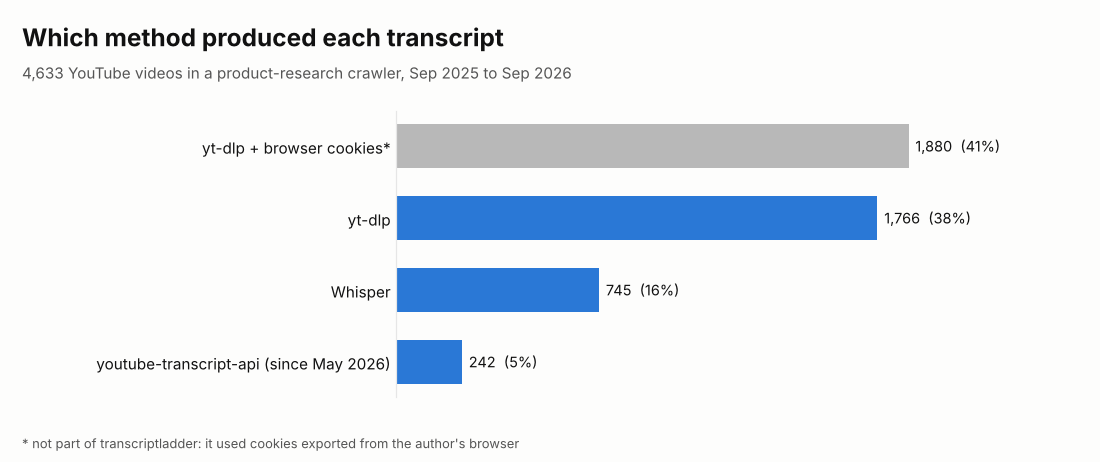
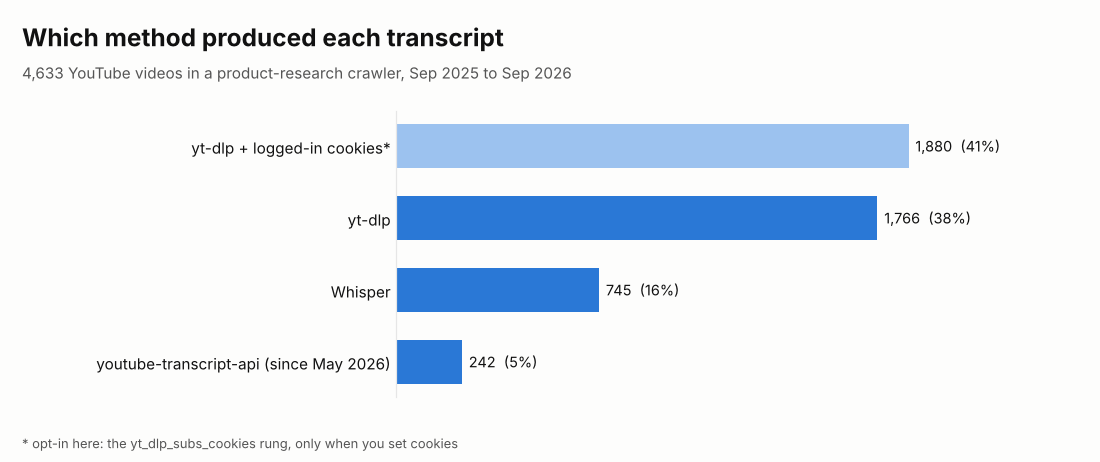
Degrau opcional com cookies de sessão logada (yt_dlp_subs_cookies)
- YtDlp(cookies=..., cookies_from_browser=...) e --cookies / --cookies-from-browser na CLI
- o degrau só existe quando há cookies e começa depois dos degraus sem cookies
- cookies não são usados em metadados nem no áudio
- com cookies, pedido de confirmar idade deixa de encerrar como unavailable
- README EN/PT: seção "Sessão logada", gráfico e fluxo atualizados
- .gitignore exclui *cookies*.txt
- 2 testes novos (19 no total)

Changed region(s): [[0.34, 0.2424, 0.8345, 0.3636], [0.0309, 0.9394, 0.4636, 0.9697], [0.1545, 0.303, 0.3091, 0.3333]]

diff --git a/docs/make_methods_chart.py b/docs/make_methods_chart.py
@@ -6,19 +6,19 @@ from pathlib import Path
 
 OUT = Path(__file__).parent / "img"
 INK, MUTED, LINE, BG, BLUE, GRAY = "#111111", "#555555", "#e6e6e6", "#fdfdfc", "#2a78d6", "#b8b8b8"
-DATA = [("yt-dlp + browser cookies*", 1880), ("yt-dlp", 1766), ("Whisper", 745), ("youtube-transcript-api (since May 2026)", 242)]
-PT = {"yt-dlp + browser cookies*": "yt-dlp + cookies do navegador*", "youtube-transcript-api (since May 2026)": "youtube-transcript-api (desde maio de 2026)"}
+DATA = [("yt-dlp + logged-in cookies*", 1880), ("yt-dlp", 1766), ("Whisper", 745), ("youtube-transcript-api (since May 2026)", 242)]
+PT = {"yt-dlp + logged-in cookies*": "yt-dlp + cookies de sessão logada*", "youtube-transcript-api (since May 2026)": "youtube-transcript-api (desde maio de 2026)"}
 TXT = {"": ("Which method produced each transcript", "4,633 YouTube videos in a product-research crawler, Sep 2025 to Sep 2026",
-            "* not part of transcriptladder: it used cookies exported from the author's browser"),
+            "* opt-in here: the yt_dlp_subs_cookies rung, only when you set cookies"),
        ".pt-BR": ("Qual método gerou cada transcrição", "4.633 vídeos do YouTube num crawler de pesquisa de produtos, set. 2025 a set. 2026",
-                  "* fora da transcriptladder: usava cookies exportados do navegador do autor")}
+                  "* opcional aqui: o degrau yt_dlp_subs_cookies, só quando você configura cookies")}
 for suf, (t, s, n) in TXT.items():
     fig, ax = plt.subplots(figsize=(10, 4.2), dpi=110); fig.patch.set_facecolor(BG); ax.set_facecolor(BG)
     fig.subplots_adjust(left=0.36, right=0.93, top=0.76, bottom=0.14)
     fig.text(0.02, 0.9, t, fontsize=16, weight="bold", color=INK); fig.text(0.02, 0.83, s, fontsize=10, color=MUTED)
     fig.text(0.02, 0.03, n, fontsize=8.5, color=MUTED)
     labels = [PT.get(l, l) if suf else l for l, _ in DATA][::-1]; vals = [v for _, v in DATA][::-1]
-    ax.barh(labels, vals, color=[GRAY if "*" in l else BLUE for l in labels], height=0.62)
+    ax.barh(labels, vals, color=["#9cc2ef" if "*" in l else BLUE for l in labels], height=0.62)
     tot = 4633
     for y, v in enumerate(vals):
         ax.text(v + 25, y, f"{v:,}".replace(",", "." if suf else ",") + f"  ({v/tot:.0%})", va="center", fontsize=9.5, color=INK)

diff --git a/src/transcriptladder/video.py b/src/transcriptladder/video.py
@@ -50,6 +50,9 @@ class YtDlp:
       read some formats).
     - ``impersonate`` (e.g. ``"chrome"``) uses yt-dlp's own browser impersonation.
     - ``extra_args`` go to every call as given.
+    - ``cookies`` (a Netscape cookies.txt) or ``cookies_from_browser`` (e.g. ``"chrome"``) are
+      yt-dlp's own options for a logged-in session. They are used only by calls made with
+      ``with_cookies=True`` (the ``yt_dlp_subs_cookies`` rung), never by default.
     - One call at a time per process (``YtDlp.lock``): parallel yt-dlp calls are the fastest
       way to a 429.
     """
@@ -58,13 +61,23 @@ class YtDlp:
     impersonate: str | None = None
     extra_args: list[str] = field(default_factory=list)
     timeout: float = 180.0
+    cookies: str | None = None
+    cookies_from_browser: str | None = None
     lock = threading.Lock()
+
+    @property
+    def has_cookies(self) -> bool:
+        return bool(self.cookies or self.cookies_from_browser)
 
     def available(self) -> bool:
         return shutil.which(self.binary) is not None
 
-    def _base(self) -> list[str]:
+    def _base(self, with_cookies: bool = False) -> list[str]:
         args = [self.binary, "--no-playlist", "--no-warnings"]
+        if with_cookies and self.cookies:
+            args += ["--cookies", self.cookies]
+        elif with_cookies and self.cookies_from_browser:
+            args += ["--cookies-from-browser", self.cookies_from_browser]
         for rt in ("deno", "node"):
             if shutil.which(rt):
                 args += ["--js-runtimes", rt]
@@ -73,8 +86,8 @@ class YtDlp:
             args += ["--impersonate", self.impersonate]
         return args + list(self.extra_args)
 
-    def run(self, args: list[str], cwd: str | None = None) -> subprocess.CompletedProcess:
-        cmd = self._base() + args
+    def run(self, args: list[str], cwd: str | None = None, with_cookies: bool = False) -> subprocess.CompletedProcess:
+        cmd = self._base(with_cookies) + args
         with self.lock:
             res = subprocess.run(cmd, capture_output=True, text=True, cwd=cwd, timeout=self.timeout,
                                  stdin=subprocess.DEVNULL)

diff --git a/src/transcriptladder/ladder.py b/src/transcriptladder/ladder.py
@@ -9,7 +9,7 @@ from typing import Callable, Iterable
 from scrapladder.memory import Memory
 
 from . import text as T
-from .rungs import Job, NoCaptions, Rung, Silent, default_rungs
+from .rungs import Job, NoCaptions, Rung, Silent, YtDlpSubsCookies, default_rungs
 from .video import RateLimited, YtDlp, video_id
 
 OK = "ok"
@@ -83,7 +83,8 @@ class Transcriber:
     max_audio_seconds:
         Speech recognition reads at most this much audio (default 1 hour).
     ytdlp:
-        A :class:`YtDlp` (``impersonate``, ``extra_args``, ``binary``).
+        A :class:`YtDlp` (``impersonate``, ``extra_args``, ``binary``, and the opt-in
+        ``cookies`` / ``cookies_from_browser`` that add the ``yt_dlp_subs_cookies`` rung).
     """
 
     def __init__(self, languages: Iterable[str] = ("pt", "pt-BR", "en"), *, rungs: Iterable[Rung] | None = None,
@@ -99,6 +100,8 @@ class Transcriber:
         self.min_interval, self.rate_limit_pause = min_interval, rate_limit_pause
         self.max_audio_seconds = max_audio_seconds
         self.ytdlp = ytdlp or YtDlp()
+        if rungs is None and self.ytdlp.has_cookies and self.ytdlp.available():
+            self.rungs.append(YtDlpSubsCookies())
         self._clock, self._sleep = clock, sleep
         self._next_ok = 0.0
         self._paused_until = 0.0
@@ -147,7 +150,10 @@ class Transcriber:
                     return result
                 except Exception as e:
                     msg = str(e).lower()
-                    if any(h in msg for h in _UNAVAILABLE_HINTS):
+                    hints = _UNAVAILABLE_HINTS
+                    if self.ytdlp.has_cookies and not getattr(rung, "with_cookies", False):
+                        hints = tuple(h for h in hints if "sign in" not in h and "members-only" not in h)
+                    if any(h in msg for h in hints):
                         att.outcome, att.reason = "unavailable", str(e)[:120]
                         result.outcome = UNAVAILABLE
                         return result

diff --git a/src/transcriptladder/rungs.py b/src/transcriptladder/rungs.py
@@ -128,6 +128,7 @@ class YtDlpSubs(Rung):
     """yt-dlp writes the subtitle file itself (``--write-subs --write-auto-subs``)."""
 
     name, tier, default_priority = "yt_dlp_subs", 1, 0.9
+    with_cookies = False
 
     def available(self) -> bool:
         return YtDlp().available()
@@ -136,7 +137,7 @@ class YtDlpSubs(Rung):
         out = os.path.join(job.workdir, "%(id)s.%(ext)s")
         res = job.ytdlp.run(["--skip-download", "--write-subs", "--write-auto-subs",
                              "--sub-langs", ",".join(job.languages), "--sub-format", "json3/vtt/best",
-                             "-o", out, job.url])
+                             "-o", out, job.url], with_cookies=self.with_cookies)
         if res.returncode != 0:
             raise RuntimeError((res.stderr or "yt-dlp failed").strip().splitlines()[-1])
         files = glob.glob(os.path.join(job.workdir, f"{job.video_id}.*.*"))
@@ -147,6 +148,19 @@ class YtDlpSubs(Rung):
             if segs:
                 return Got(segs, f.rsplit(".", 2)[-2])
         raise NoCaptions("yt-dlp wrote no subtitle")
+
+
+class YtDlpSubsCookies(YtDlpSubs):
+    """Same as ``yt_dlp_subs``, with the logged-in session configured in ``YtDlp`` (opt-in).
+
+    For videos where YouTube asks to "sign in to confirm you're not a bot" or to confirm age.
+    It comes after the rungs without cookies, so the account is used only when they failed.
+    Added automatically by :class:`Transcriber` when ``YtDlp(cookies=...)`` or
+    ``YtDlp(cookies_from_browser=...)`` is set.
+    """
+
+    name, tier, default_priority = "yt_dlp_subs_cookies", 1, 0.85
+    with_cookies = True
 
 
 # ---------------------------------------------------------------- tier 2: speech recognition

diff --git a/tests/test_ladder.py b/tests/test_ladder.py
@@ -90,3 +90,29 @@ def test_learned_priority_reorders_inside_a_tier(tmp_path):
     for _ in range(6):
         tr.transcribe(VID)
     assert [r.name for r in tr.order()] == ["b", "a"]
+
+
+def test_cookies_are_opt_in_and_only_in_the_cookies_rung(monkeypatch):
+    from transcriptladder.video import YtDlp
+    from transcriptladder.rungs import YtDlpSubs, YtDlpSubsCookies
+    import shutil
+    monkeypatch.setattr(shutil, "which", lambda b: "/usr/bin/" + b if b == "yt-dlp" else None)
+    plain = YtDlp()
+    assert "--cookies" not in plain._base(with_cookies=True)
+    y = YtDlp(cookies="c.txt")
+    assert "--cookies" not in y._base() and y._base(with_cookies=True)[3:5] == ["--cookies", "c.txt"]
+    assert YtDlp(cookies_from_browser="chrome")._base(with_cookies=True)[3:5] == ["--cookies-from-browser", "chrome"]
+    assert not YtDlpSubs.with_cookies and YtDlpSubsCookies.with_cookies
+    t = Transcriber(["pt"], ytdlp=y)
+    assert "yt_dlp_subs_cookies" in [r.name for r in t.rungs]
+    assert "yt_dlp_subs_cookies" not in [r.name for r in Transcriber(["pt"]).rungs]
+
+
+def test_age_gate_is_not_final_when_cookies_are_set():
+    from transcriptladder.video import YtDlp
+    gate = Fake("subs", 1, 0.9, RuntimeError("Sign in to confirm your age"))
+    with_cookies = Fake("subs_cookies", 1, 0.85, Got(SPEECH))
+    with_cookies.with_cookies = True
+    tr = Transcriber(["pt"], rungs=[gate, with_cookies], ytdlp=YtDlp(cookies="c.txt"), min_interval=0, sleep=lambda s: None)
+    r = tr.transcribe(VID)
+    assert r.ok and r.method == "subs_cookies"

diff --git a/src/transcriptladder/cli.py b/src/transcriptladder/cli.py
@@ -9,7 +9,7 @@ from __future__ import annotations
 import argparse
 import sys
 
-from . import Transcriber
+from . import Transcriber, YtDlp
 from .rungs import ALL
 
 
@@ -20,16 +20,20 @@ def main(argv=None) -> int:
     p.add_argument("--memory", default=None)
     p.add_argument("--srt", action="store_true", help="print SRT with timestamps instead of plain text")
     p.add_argument("--interval", type=float, default=10.0)
+    p.add_argument("--cookies", help="cookies.txt of a logged-in YouTube session (opt-in, see README)")
+    p.add_argument("--cookies-from-browser", help="browser to read the session from, e.g. chrome (opt-in)")
     a = p.parse_args(argv)
 
     if a.urls == ["methods"]:
         for cls in ALL:
             r = cls()
             print(f"{r.name:<24} tier {r.tier}  {'available' if r.available() else 'missing'}")
+        print("yt_dlp_subs_cookies      tier 1  only with --cookies or --cookies-from-browser")
         return 0
 
     code = 0
-    with Transcriber(a.lang.split(","), memory=a.memory, min_interval=a.interval) as t:
+    ytdlp = YtDlp(cookies=a.cookies, cookies_from_browser=a.cookies_from_browser)
+    with Transcriber(a.lang.split(","), memory=a.memory, min_interval=a.interval, ytdlp=ytdlp) as t:
         for url in a.urls:
             r = t.transcribe(url)
             print(f"# {url}: {r.summary()}", file=sys.stderr)

diff --git a/README.pt-BR.md b/README.pt-BR.md
@@ -43,7 +43,7 @@ Esta biblioteca é a etapa de transcrição desse crawler, reescrita como pacote
 
 ![Qual método gerou cada transcrição](docs/img/methods.pt-BR.png)
 
-- **yt-dlp** pegou 38% delas, e outros 41% vieram do yt-dlp com cookies exportados do navegador do próprio autor. Essa variante não está nesta biblioteca (veja Escopo), então espere que mais desses vídeos caiam no Whisper ou falhem.
+- **yt-dlp** pegou 38% delas, e outros 41% vieram do yt-dlp com os cookies de uma sessão logada do YouTube. Aqui isso é o degrau `yt_dlp_subs_cookies`, desligado por padrão (veja [Sessão logada](#sessão-logada-opcional)). Sem ele, espere que mais desses vídeos caiam no Whisper ou falhem.
 - **Whisper** cobriu 16%, os vídeos sem legenda.
 - **youtube-transcript-api** entrou em maio de 2026 e pegou 5%.
 
@@ -65,7 +65,7 @@ flowchart TD
   V -- não --> I["invalid_url"]
   V -- sim --> P{"pausado por<br/>um 429 recente?"}
   P -- sim --> RL["rate_limited<br/>retry_after"]
-  P -- não --> T1["nível 1: legendas<br/>youtube-transcript-api → URL da legenda → legendas do yt-dlp<br/>(ordem aprendida dentro do nível)"]
+  P -- não --> T1["nível 1: legendas<br/>youtube-transcript-api → URL da legenda → legendas do yt-dlp<br/>(+ yt-dlp com cookies, se configurado)<br/>ordem aprendida dentro do nível"]
   T1 -- "texto passa na checagem" --> OK["ok<br/>texto, trechos, SRT, idioma"]
   T1 -- "sem legenda nesses idiomas" --> T2
   T1 -- "erro ou não é transcrição" --> T2["nível 2: reconhecimento de fala<br/>faster-whisper → Whisper<br/>áudio: URL do stream + ffmpeg, primeira hora"]
@@ -90,6 +90,7 @@ flowchart LR
 | `youtube_transcript_api` | `youtube-transcript-api` | 1 | 0,95 |
 | `caption_url` | `yt-dlp` (comando) + `requests` | 1 | 0,92 |
 | `yt_dlp_subs` | `yt-dlp` (comando) | 1 | 0,90 |
+| `yt_dlp_subs_cookies` | `yt-dlp` + seus cookies (opcional) | 1 | 0,85 |
 | `faster_whisper` | `faster-whisper` + `ffmpeg` | 2 | 0,80 |
 | `whisper` | `openai-whisper` + `ffmpeg` | 2 | 0,65 |
 
@@ -116,13 +117,28 @@ transcriptladder https://youtu.be/VIDEO_ID --lang pt,en          # texto
 transcriptladder VIDEO_ID OUTRO_ID --srt --memory tl.json        # SRT, vários vídeos
 ```
 
+## Sessão logada (opcional)
+
+Cada vez mais o YouTube responde "Sign in to confirm you're not a bot" ou pede para confirmar a idade. A resposta documentada do yt-dlp é mandar os cookies de uma sessão logada. No crawler do autor, esse caminho gerou 41% das transcrições.
+
+```python
+from transcriptladder import Transcriber, YtDlp
+
+t = Transcriber(["pt", "en"], ytdlp=YtDlp(cookies="youtube-cookies.txt"))   # ou cookies_from_browser="firefox"
+```
+
+```bash
+transcriptladder VIDEO_ID --cookies youtube-cookies.txt
+```
+
+- **Desligado por padrão.** O degrau `yt_dlp_subs_cookies` só existe quando há cookies configurados.
+- **Só quando precisa.** Ele começa depois dos degraus sem cookies, e os cookies não são usados para metadados nem para o áudio. Se os outros degraus falharem muito, a prioridade aprendida pode subi-lo.
+- **Use uma conta secundária.** O YouTube pode marcar ou restringir uma conta que baixa muitos vídeos.
+- **Cookies valem como senha.** Deixe o arquivo fora do git (`*cookies*.txt` está no `.gitignore`) e exporte de novo quando expirar.
+
 ## Escopo
 
-A transcriptladder usa ferramentas públicas como elas são. Ela não:
-
-- carrega cookies do seu navegador;
-- faz login;
-- baixa o vídeo em si, só a legenda ou o áudio necessário para o reconhecimento de fala.
+A transcriptladder usa ferramentas públicas como elas são. Ela não faz login sozinha e não baixa o vídeo, só a legenda ou o áudio necessário para o reconhecimento de fala.
 
 `YtDlp(impersonate="chrome")` liga a imitação de navegador do próprio yt-dlp, e `YtDlp(extra_args=[...])` repassa argumentos a toda chamada do yt-dlp como vierem. O que você transcreve e como usa é responsabilidade sua; confira os termos do YouTube e os direitos dos donos dos vídeos.
 

diff --git a/README.md b/README.md
@@ -43,7 +43,7 @@ This library is the transcript step of that crawler, rewritten as a package. In 
 
 ![Which method produced each transcript](docs/img/methods.png)
 
-- **yt-dlp** got 38% of them, and another 41% came from yt-dlp with cookies exported from the author's own browser. That variant is not in this library (see Scope), so expect more of those videos to fall to Whisper or to fail.
+- **yt-dlp** got 38% of them, and another 41% came from yt-dlp with the cookies of a logged-in YouTube session. That is the `yt_dlp_subs_cookies` rung here, off by default (see [Logged-in session](#logged-in-session-opt-in)). Without it, expect more of those videos to fall to Whisper or to fail.
 - **Whisper** covered 16%, the videos with no captions.
 - **youtube-transcript-api** was added in May 2026 and got 5%.
 
@@ -65,7 +65,7 @@ flowchart TD
   V -- no --> I["invalid_url"]
   V -- yes --> P{"paused by<br/>a recent 429?"}
   P -- yes --> RL["rate_limited<br/>retry_after"]
-  P -- no --> T1["tier 1: captions<br/>youtube-transcript-api → caption URL → yt-dlp subs<br/>(order learned inside the tier)"]
+  P -- no --> T1["tier 1: captions<br/>youtube-transcript-api → caption URL → yt-dlp subs<br/>(+ yt-dlp with cookies, if set)<br/>order learned inside the tier"]
   T1 -- "text passes check" --> OK["ok<br/>text, segments, SRT, language"]
   T1 -- "no captions in these languages" --> T2
   T1 -- "error or not a transcript" --> T2["tier 2: speech recognition<br/>faster-whisper → Whisper<br/>audio: stream URL + ffmpeg, first hour"]
@@ -90,6 +90,7 @@ flowchart LR
 | `youtube_transcript_api` | `youtube-transcript-api` | 1 | 0.95 |
 | `caption_url` | `yt-dlp` (command) + `requests` | 1 | 0.92 |
 | `yt_dlp_subs` | `yt-dlp` (command) | 1 | 0.90 |
+| `yt_dlp_subs_cookies` | `yt-dlp` + your cookies (opt-in) | 1 | 0.85 |
 | `faster_whisper` | `faster-whisper` + `ffmpeg` | 2 | 0.80 |
 | `whisper` | `openai-whisper` + `ffmpeg` | 2 | 0.65 |
 
@@ -116,13 +117,28 @@ transcriptladder https://youtu.be/VIDEO_ID --lang pt,en          # plain text
 transcriptladder VIDEO_ID OTHER_ID --srt --memory tl.json        # SRT, several videos
 ```
 
+## Logged-in session (opt-in)
+
+More and more often YouTube answers "Sign in to confirm you're not a bot", or asks to confirm age. yt-dlp's documented answer is to send the cookies of a logged-in session. In the author's crawler that path produced 41% of the transcripts.
+
+```python
+from transcriptladder import Transcriber, YtDlp
+
+t = Transcriber(["pt", "en"], ytdlp=YtDlp(cookies="youtube-cookies.txt"))   # or cookies_from_browser="firefox"
+```
+
+```bash
+transcriptladder VIDEO_ID --cookies youtube-cookies.txt
+```
+
+- **Off by default.** The `yt_dlp_subs_cookies` rung only exists when cookies are set.
+- **Used only when needed.** It starts after the rungs without cookies, and the cookies are not used for metadata or audio. If the other rungs keep failing, the learned priority can move it up.
+- **Use a secondary account.** YouTube can flag or restrict an account that fetches many videos.
+- **Cookies are a password.** Keep the file out of git (`*cookies*.txt` is in `.gitignore`) and export it again when it expires.
+
 ## Scope
 
-transcriptladder uses public tools as they are. It does not:
-
-- load cookies from your browser;
-- log in;
-- download the video itself, only captions or the audio needed for speech recognition.
+transcriptladder uses public tools as they are. It does not log in by itself, and it does not download the video, only captions or the audio needed for speech recognition.
 
 `YtDlp(impersonate="chrome")` turns on yt-dlp's own browser impersonation, and `YtDlp(extra_args=[...])` passes arguments to every yt-dlp call as given. What you transcribe and how you use it is your responsibility; check YouTube's terms and the rights of the video owners.
 

diff --git a/CHANGELOG.md b/CHANGELOG.md
@@ -8,4 +8,5 @@
 - `text.to_segments`: VTT, SRT and YouTube json3 to timed lines, rolling auto-caption repeats removed; `text.check` rejects HTML, stack traces, JSON and too little text.
 - `video_id()` for every YouTube URL form; `Transcript.srt()`.
 - Audio for speech recognition read from the stream URL with ffmpeg, first hour only.
-- CLI: `transcriptladder URL... [--srt]`, `transcriptladder methods`.
+- Opt-in `yt_dlp_subs_cookies` rung with `YtDlp(cookies=...)` or `cookies_from_browser`, used only after the rungs without cookies.
+- CLI: `transcriptladder URL... [--srt] [--cookies FILE]`, `transcriptladder methods`.
